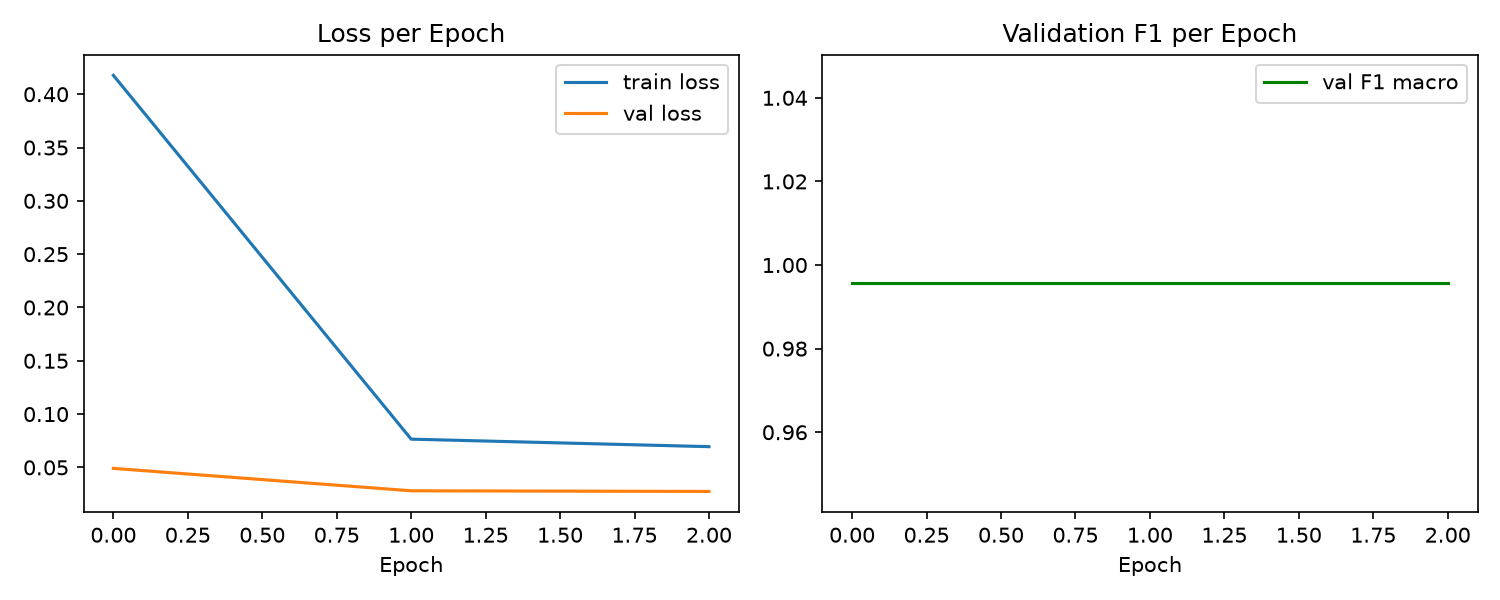
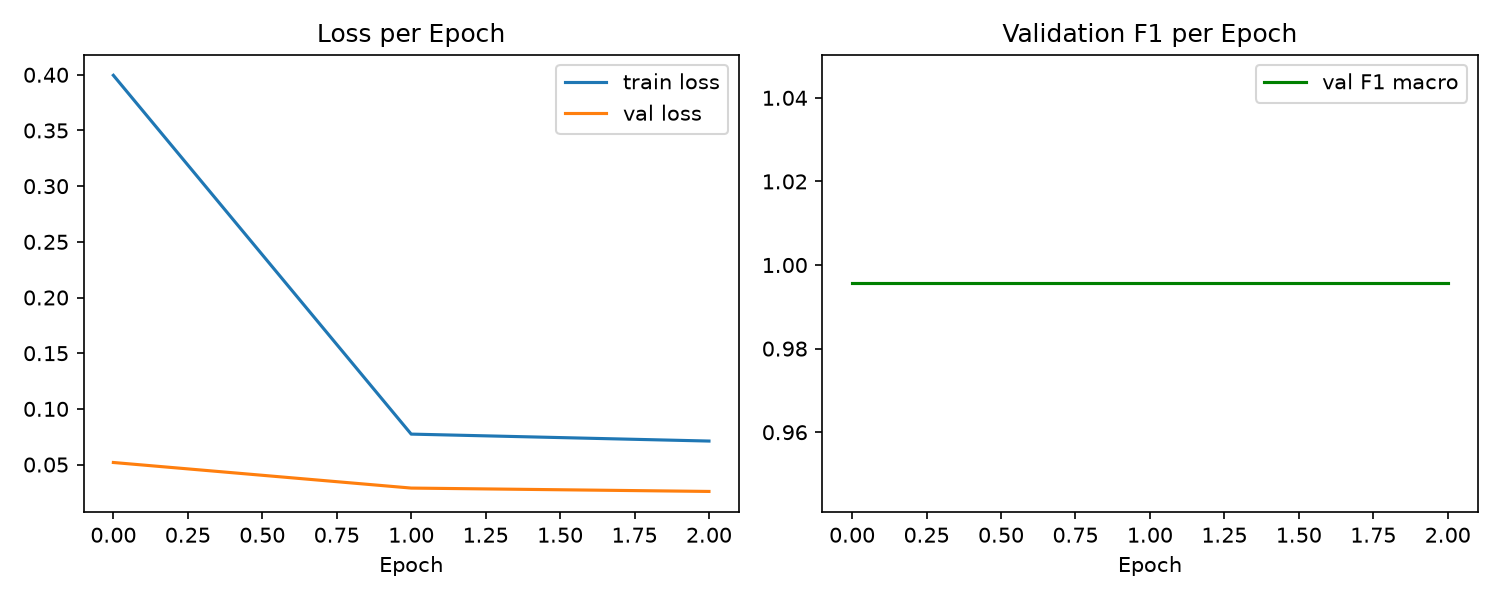
chore: stage remaining changes before history rewrite

diff --git a/models/bert_router.py b/models/bert_router.py
@@ -210,13 +210,15 @@ def main():
 
             if val_f1 > best_f1:
                 best_f1 = val_f1
-                torch.save(model.state_dict(), best_path)
-                print(f"  ** New best F1: {best_f1:.4f} -- saved to {best_path}")
+                model.save_pretrained(MODELS_DIR / "bert_router_hf")
+                print(f"  ** New best F1: {best_f1:.4f} -- saved to {MODELS_DIR / 'bert_router_hf'}")
 
         mlflow.log_metric("best_val_f1", best_f1)
 
     # final eval with best checkpoint
-    model.load_state_dict(torch.load(best_path, map_location=DEVICE))
+    model = DistilBertForSequenceClassification.from_pretrained(
+        str(MODELS_DIR / "bert_router_hf")
+    ).to(DEVICE)
     _, final_f1, final_preds, final_true = eval_epoch(model, val_loader)
 
     y_true_labels = le.inverse_transform(final_true)
